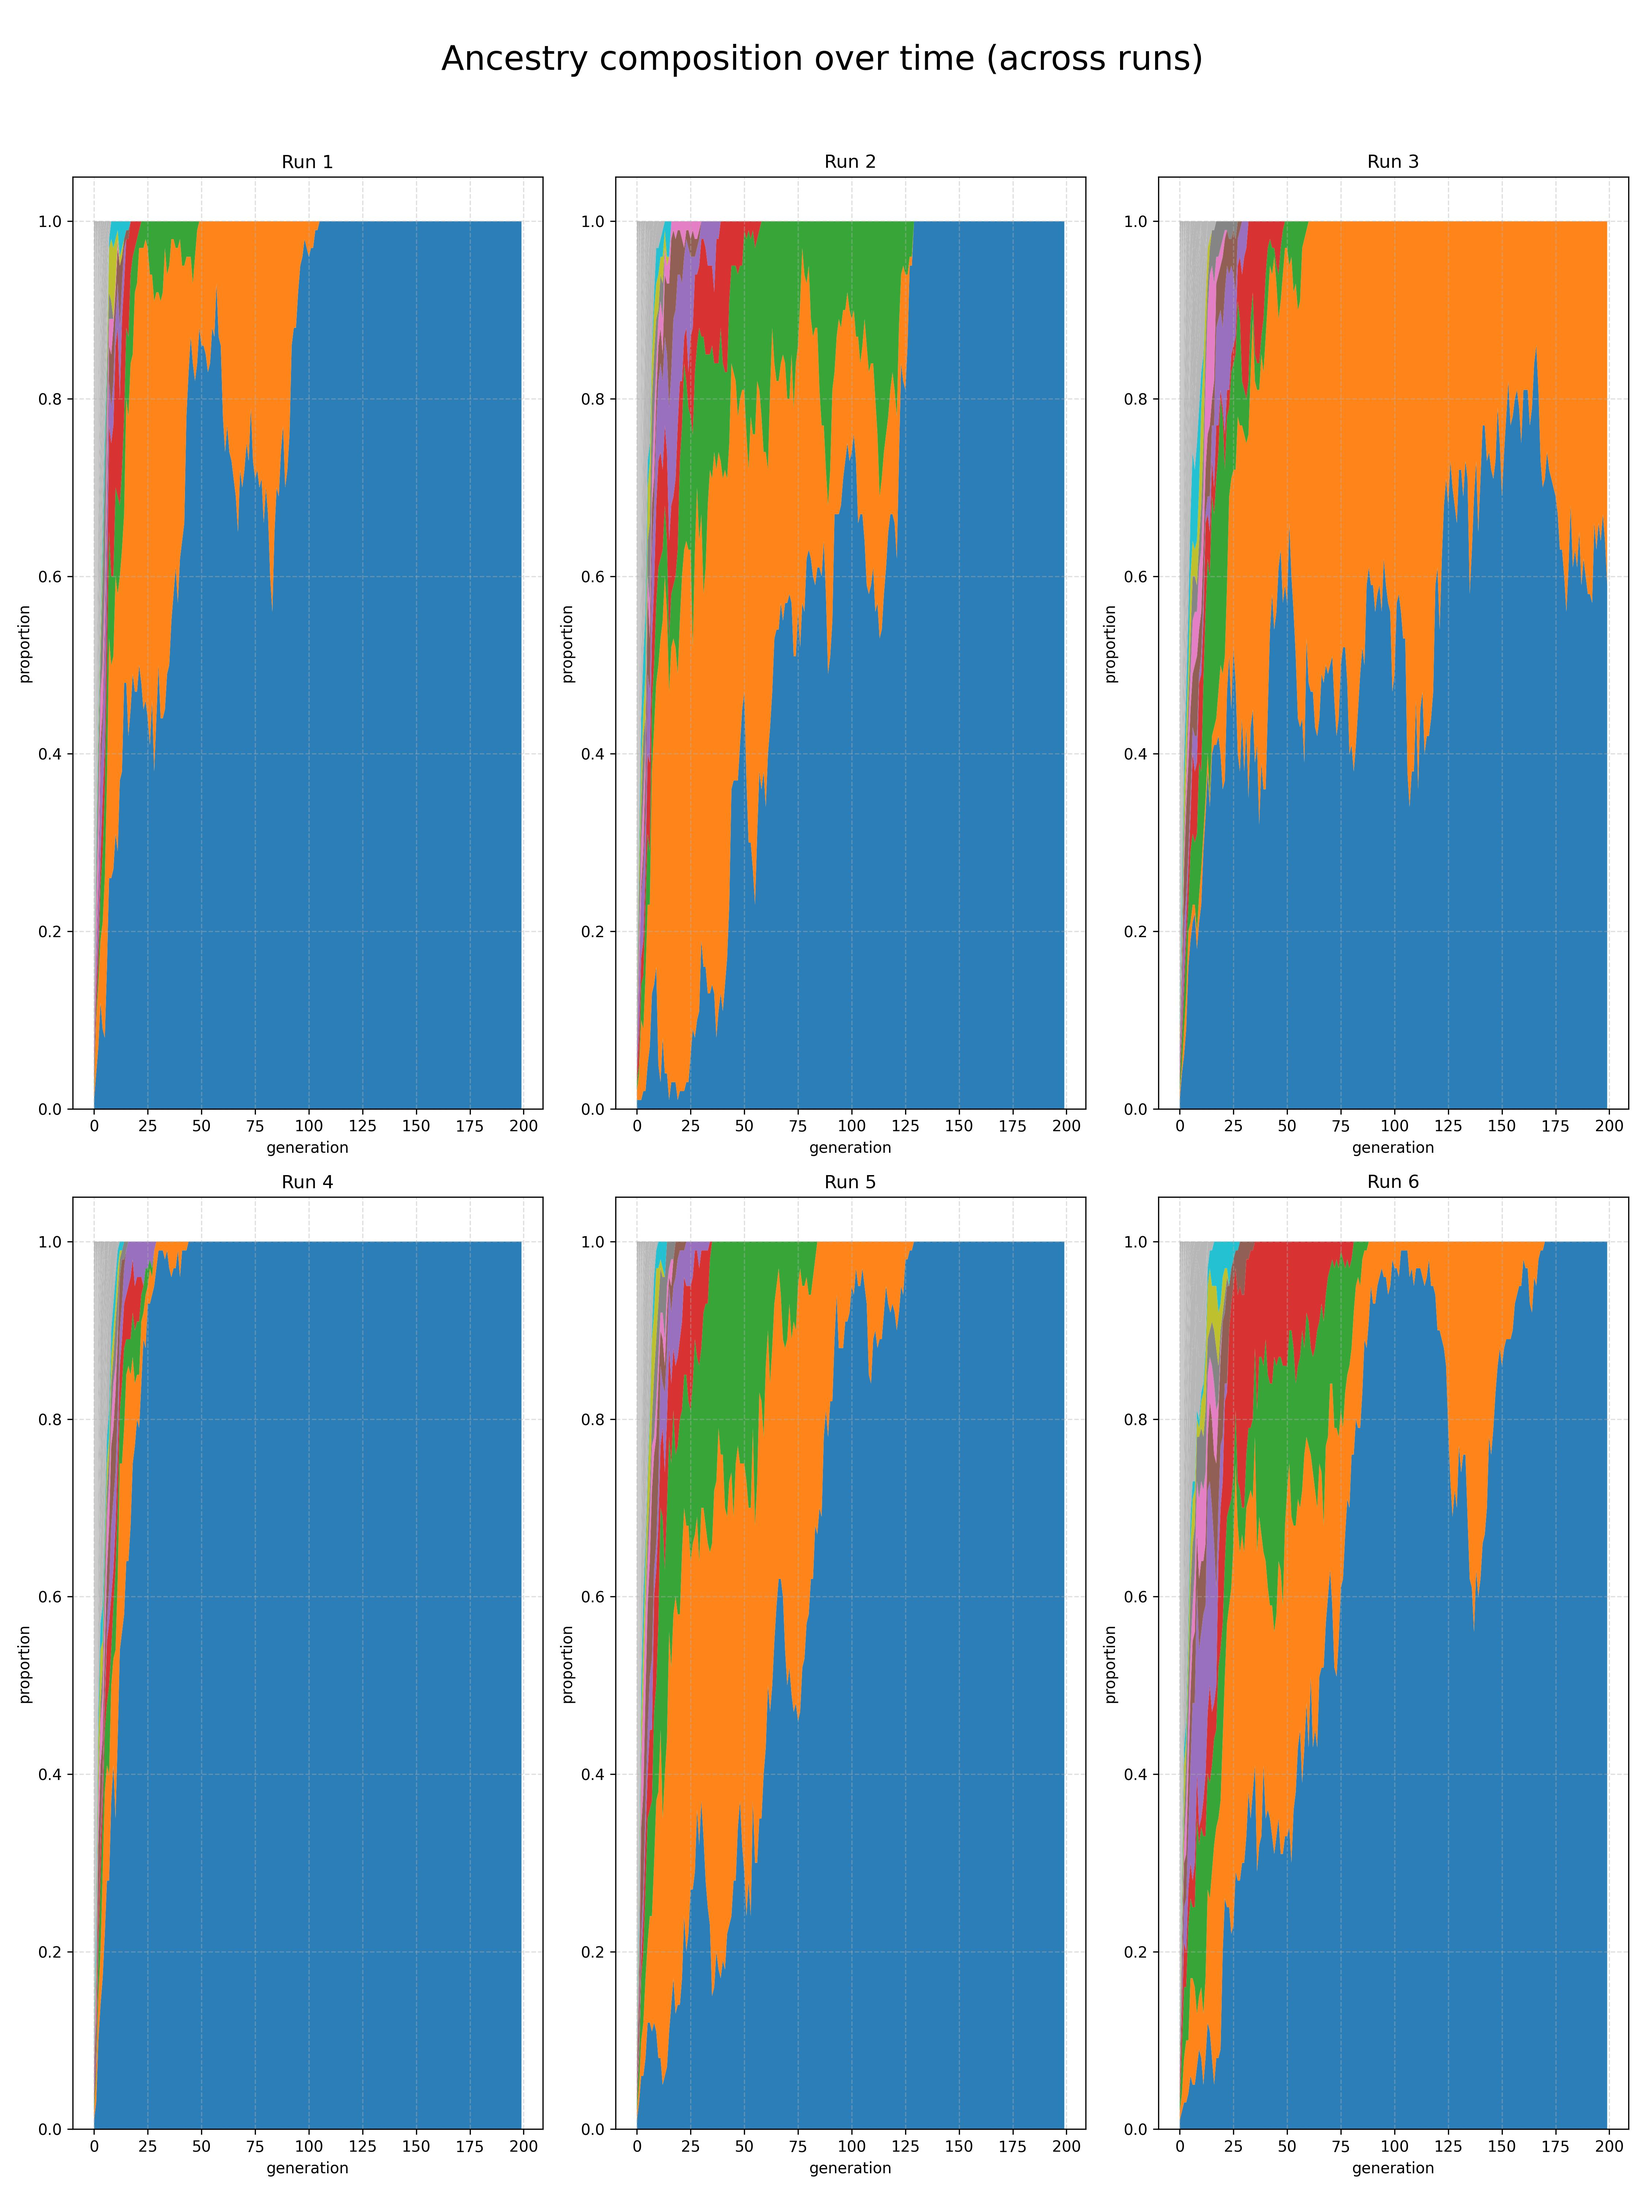
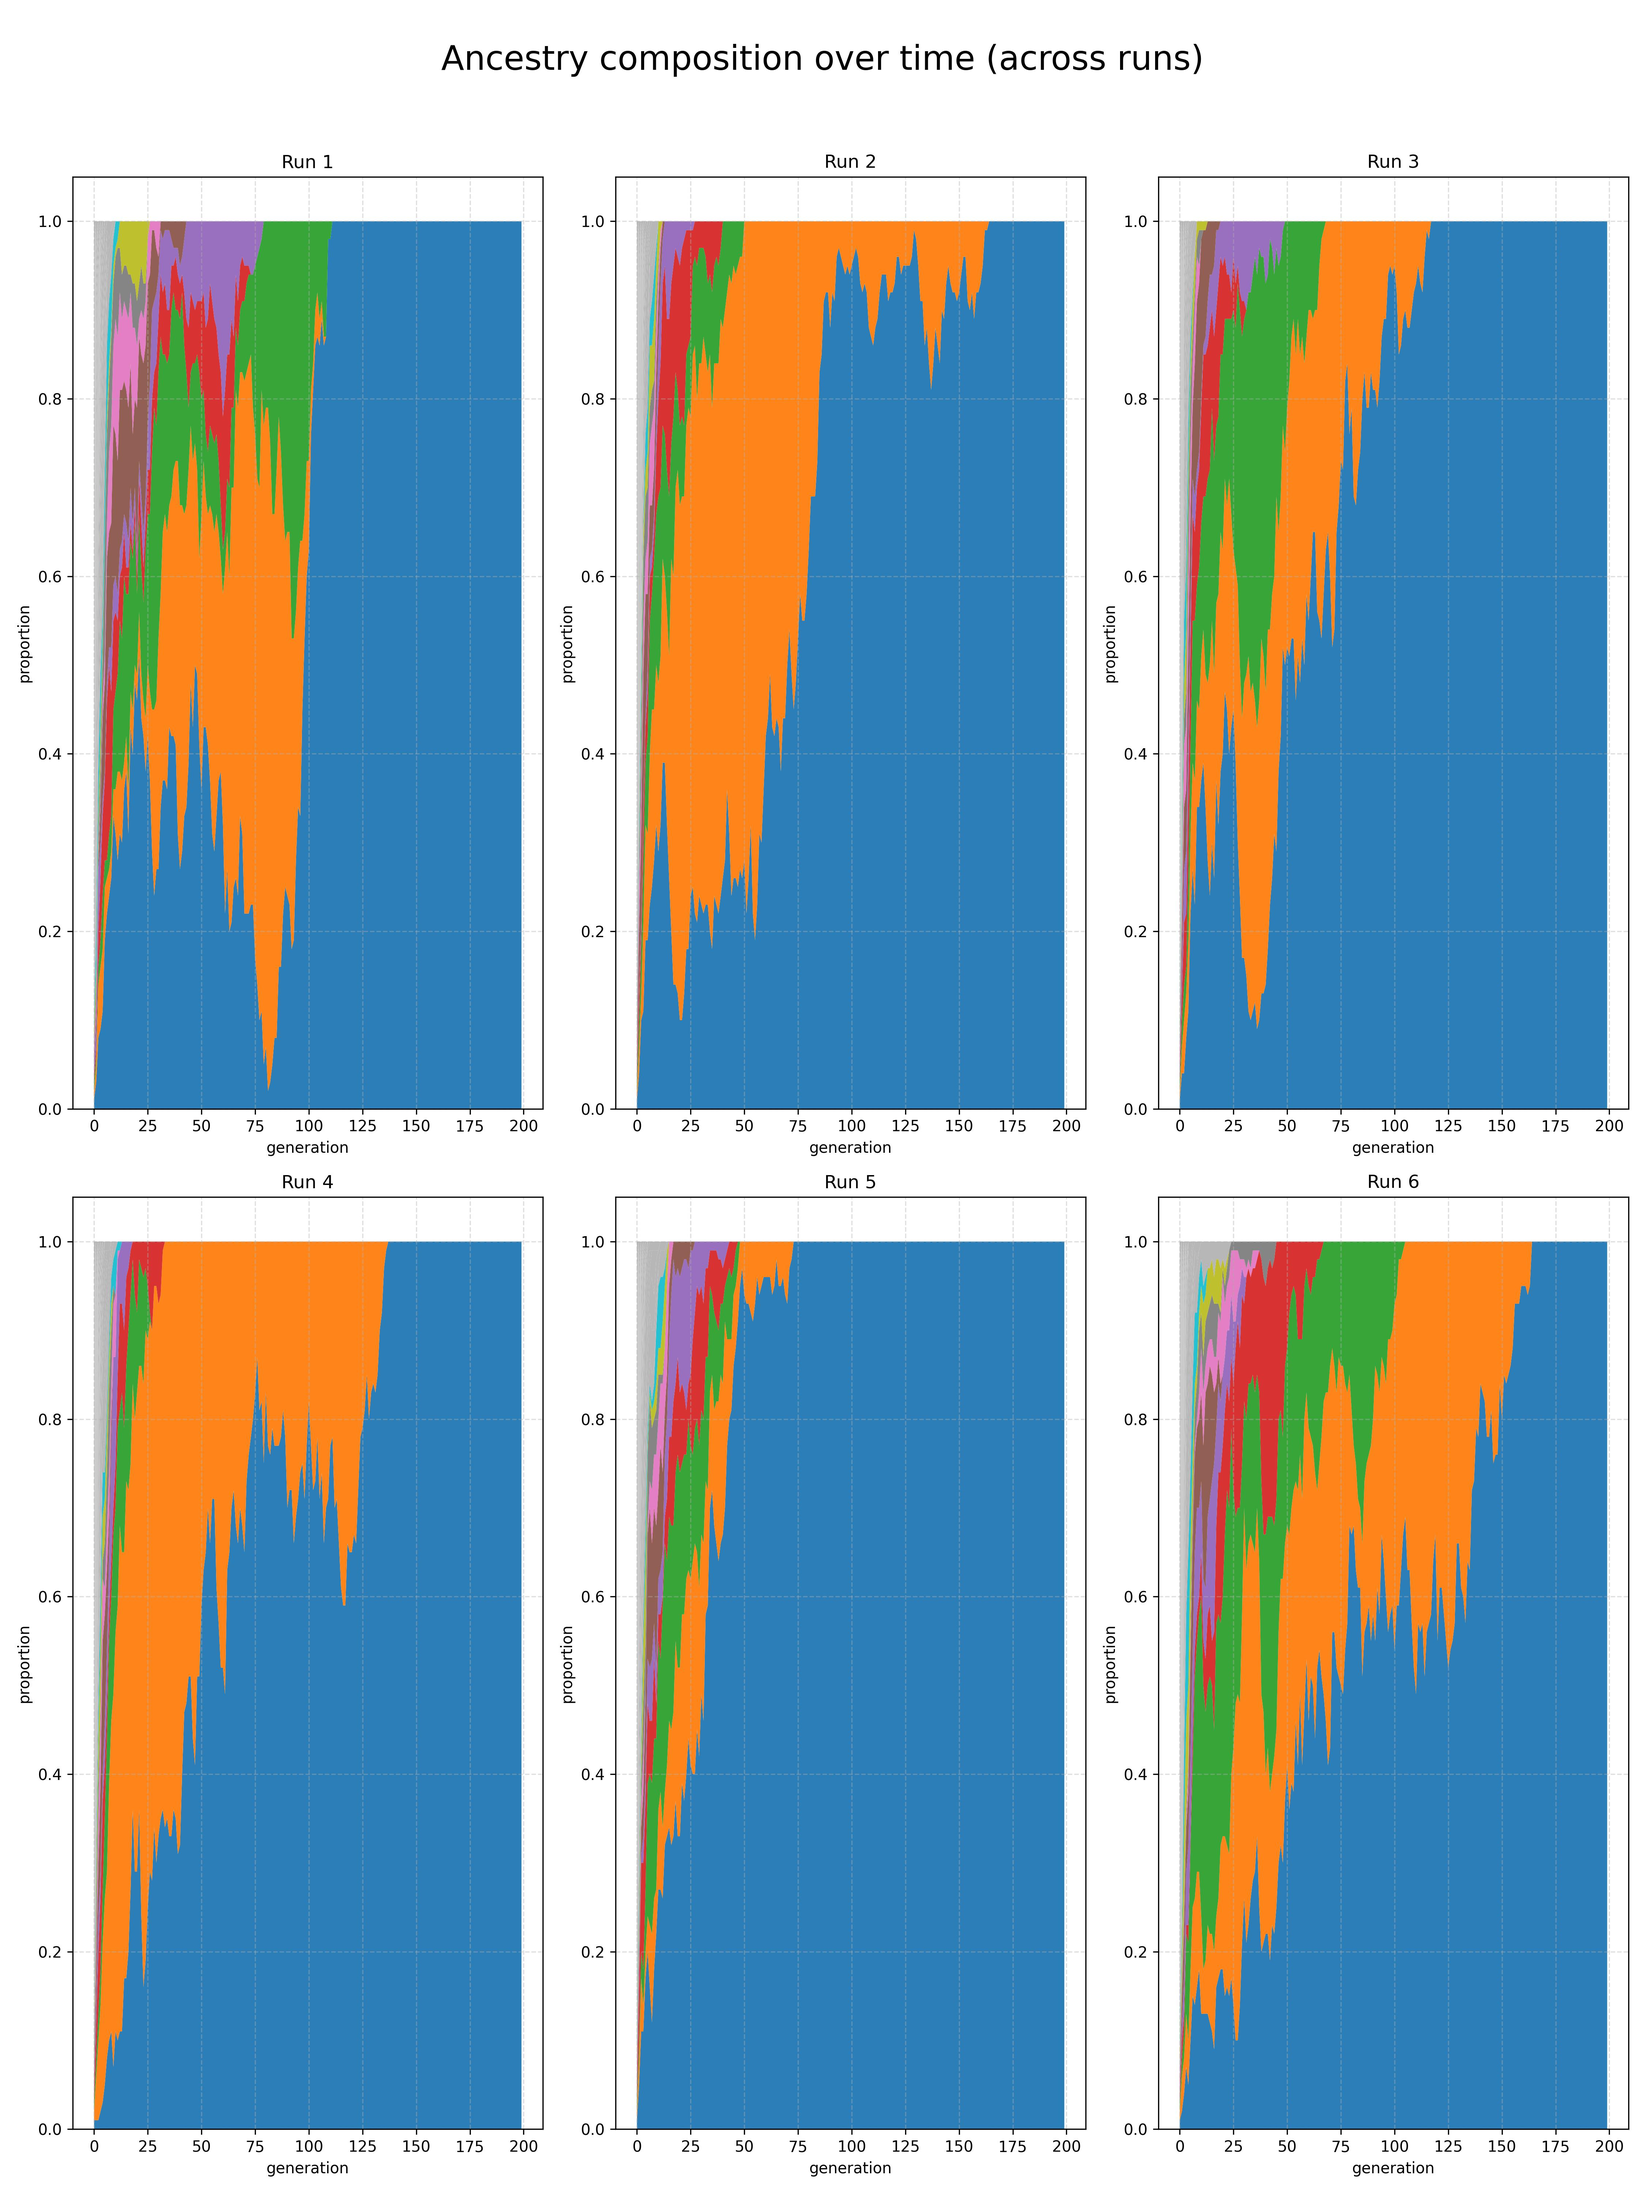
edit plotting code

diff --git a/plotting.py b/plotting.py
@@ -270,29 +270,38 @@ def plot_median_fitness_by_generation(
     plt.figure(figsize=figsize)
 
     for idx, layer in enumerate(layer_counts):
-        fitness_runs = fitness_by_layer[
-            layer
-        ]  # shape: (n_runs, population_size, n_generations)
-        fitness_runs = (
-            fitness_runs * fitness_runs.shape[1]
-        )  # Multiply by population size
+        fitness_runs = fitness_by_layer[layer]  # shape: (n_runs, population_size, n_generations)
+        fitness_runs = fitness_runs * fitness_runs.shape[1]  # Multiply by population size
         means = []
 
         for gen in range(n_generations):
-            # Collect all peak-to-peak values for this generation
             all_min = [np.min(run_fitness[:, gen]) for run_fitness in fitness_runs]
-            # Compute the median
             means.append(np.mean(all_min))
 
-        # Plot the median line for this layer
         plt.plot(range(n_generations), means, label=f"Layer {layer}", linewidth=2)
-        generation_achieve_threshold[idx] = np.where(np.array(means) >= threshold)[0][0]
 
-    # Add labels, legend, and clean up the plot
-    plt.xlabel("Generation", fontsize=14)
-    plt.ylabel("Mean (min fitness)", fontsize=14)
-    plt.legend(title="Layers", fontsize=12, title_fontsize=12)
-    plt.grid(alpha=0.3)
+        try:
+            generation_achieve_threshold[idx] = np.where(np.array(means) >= threshold)[0][0]
+        except IndexError:
+            generation_achieve_threshold[idx] = -1  # or handle as appropriate
+
+    # Axis settings
+    plt.xlabel("Generation", fontsize=16)
+    plt.ylabel("Mean (min fitness)", fontsize=16)
+    plt.yscale("log")
+
+    # Legend settings
+    plt.legend(title="Layers", fontsize=13, title_fontsize=14)
+
+    # Remove grid and top/right spines
+    ax = plt.gca()
+    ax.grid(False)
+    ax.spines["top"].set_visible(False)
+    ax.spines["right"].set_visible(False)
+
+    # Ticks font size
+    ax.tick_params(axis='both', which='major', labelsize=13)
+
     plt.tight_layout()
 
     if save:

diff --git a/main.py b/main.py
@@ -74,14 +74,18 @@ def _(evolution):
 
 
 @app.cell
-def _(mean_optimality, plotting):
-    plotting.plot_fitness_grid(fitness_dict=mean_optimality, figsize=(10, 5))
-    return
+def _(fitness, plotting):
+    layer_counts, generation_achieve_threshold = (
+        plotting.plot_median_fitness_by_generation(fitness, save=True)
+    )
+    return generation_achieve_threshold, layer_counts
 
 
 @app.cell
-def _(mean_optimality, plotting):
-    plotting.plot_fitness_grid_by_population(mean_optimality, figsize=(10, 5))
+def _(generation_achieve_threshold, layer_counts, plotting):
+    plotting.plot_generation_to_optimality(
+        layer_counts, generation_achieve_threshold, save=True
+    )
     return
 
 
@@ -95,22 +99,6 @@ def _(helper, mean_optimality):
 @app.cell
 def _(df, plotting):
     plotting.plot_half_max_heatmap(df)
-    return
-
-
-@app.cell
-def _(fitness, plotting):
-    layer_counts, generation_achieve_threshold = (
-        plotting.plot_median_fitness_by_generation(fitness, save=False)
-    )
-    return generation_achieve_threshold, layer_counts
-
-
-@app.cell
-def _(generation_achieve_threshold, layer_counts, plotting):
-    plotting.plot_generation_to_optimality(
-        layer_counts, generation_achieve_threshold, save=True
-    )
     return
 
 
